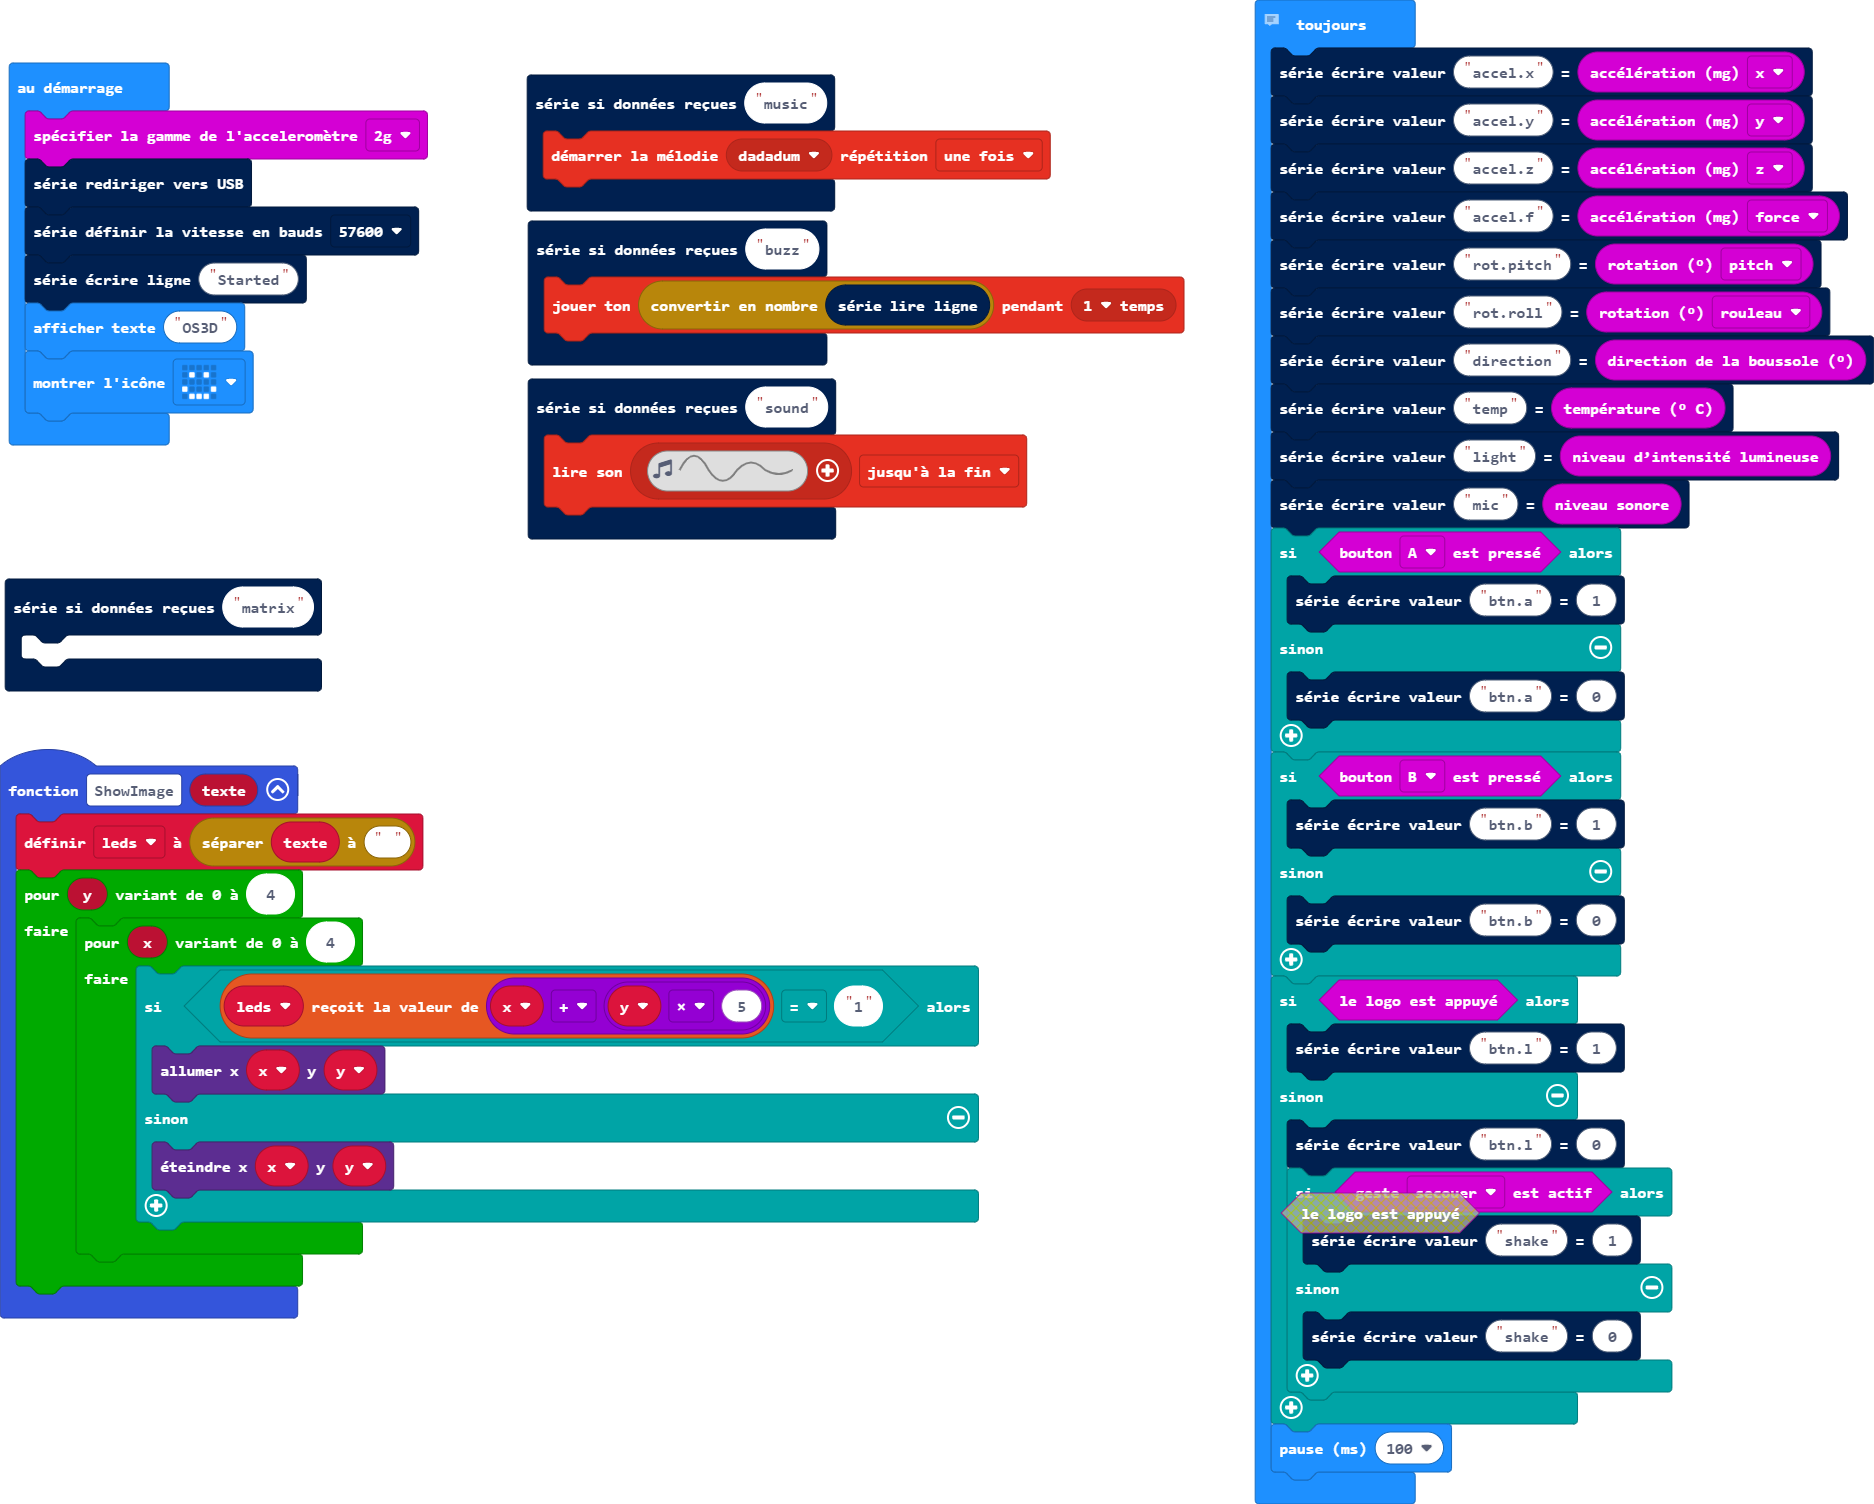
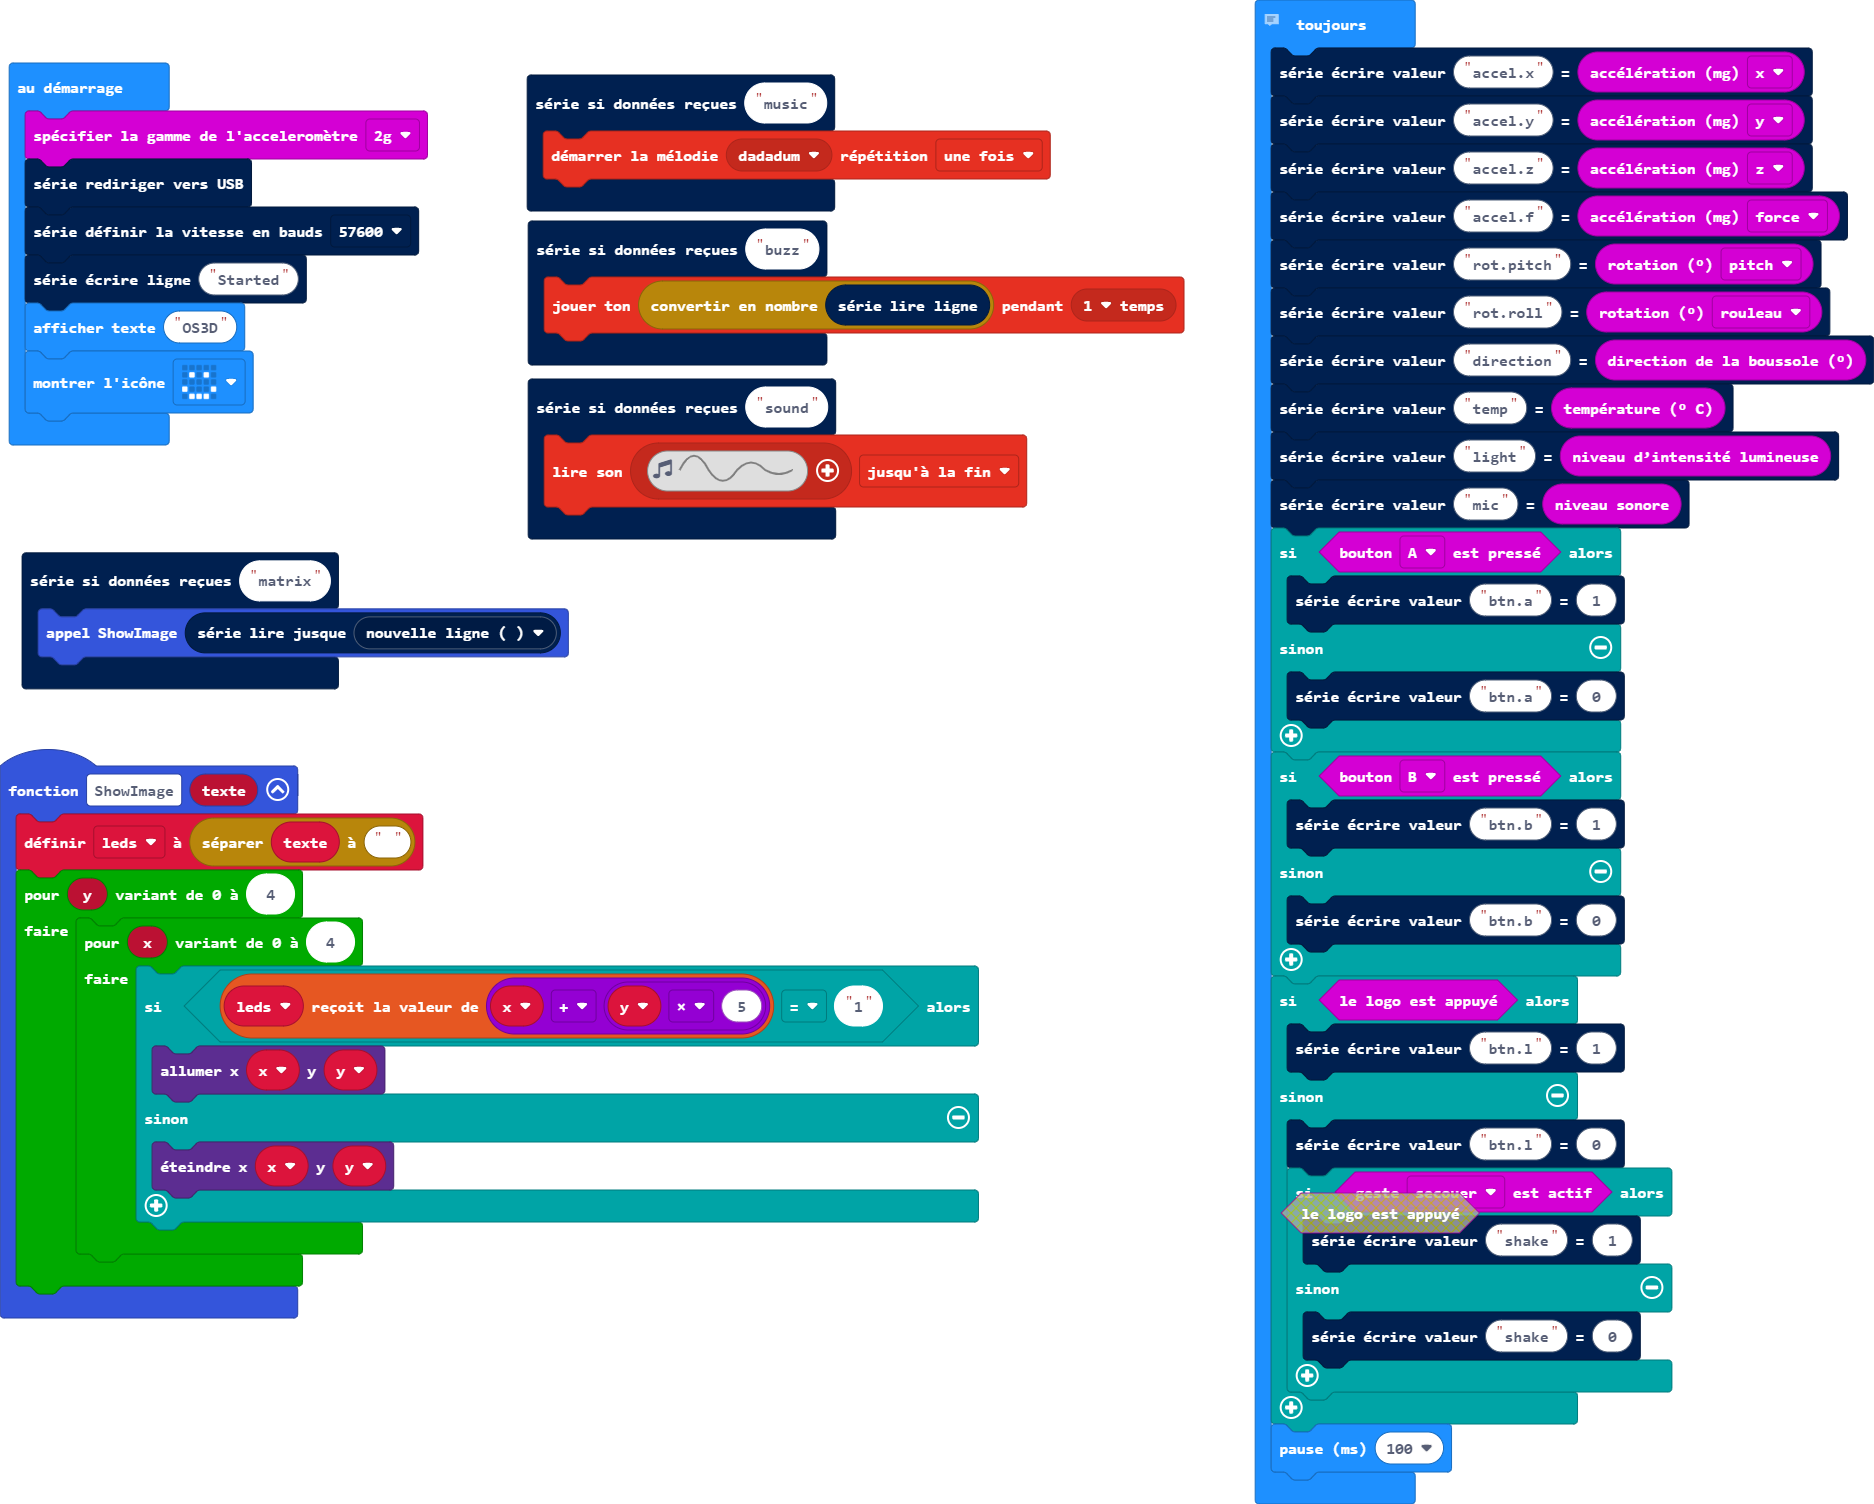
Mise à jour main.blocks, main.ts

Changed region(s): [[0.0, 0.3438, 0.3095, 0.4688]]

diff --git a/main.ts b/main.ts
@@ -11,7 +11,7 @@ function ShowImage (texte: string) {
     }
 }
 serial.onDataReceived("matrix", function () {
-	
+    ShowImage(serial.readUntil(serial.delimiters(Delimiters.NewLine)))
 })
 serial.onDataReceived("sound", function () {
     music.playSoundEffect(music.createSoundEffect(WaveShape.Sine, 200, 600, 255, 0, 150, SoundExpressionEffect.None, InterpolationCurve.Linear), SoundExpressionPlayMode.UntilDone)
